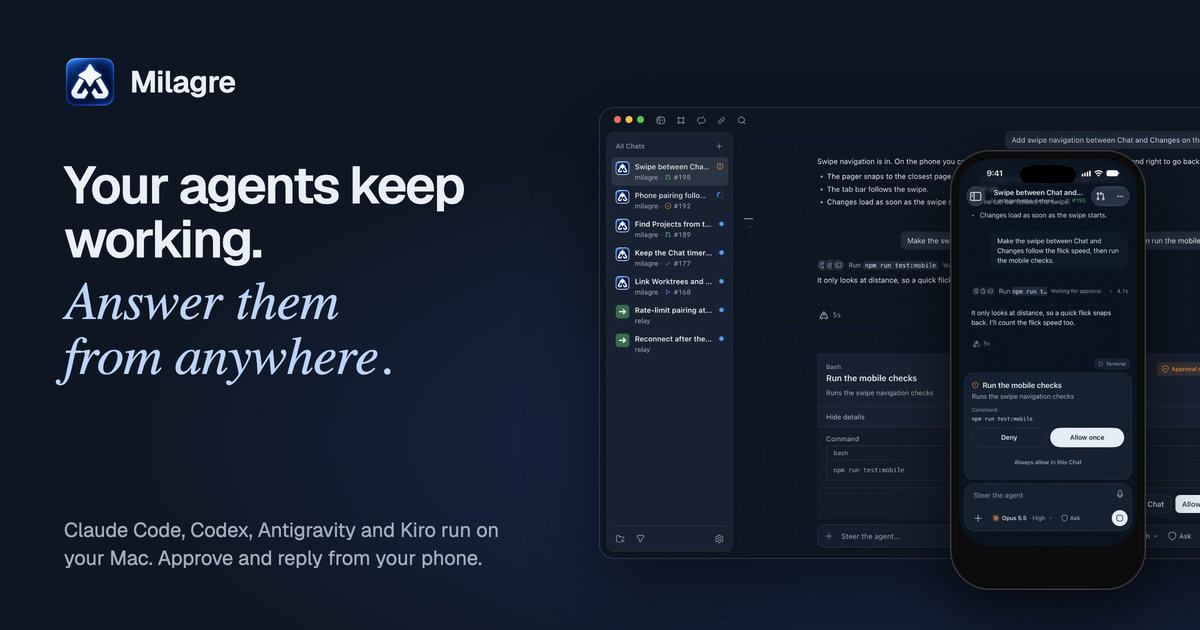
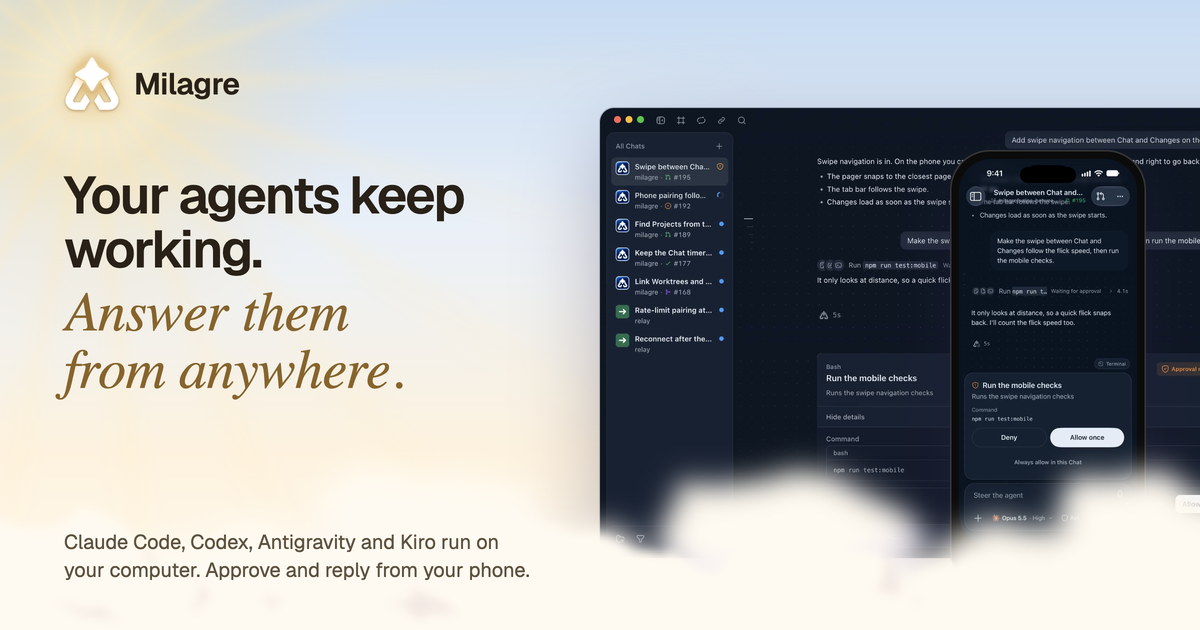
feat(site): link preview image in the Dawn day look (#1010)
og.png matches the Dawn landing. Also fixes the landing's Electron check for the Dawn hero (clouds, smaller phone frame) and clips the star trail's light at the page edges.

diff --git a/apps/site/src/styles/dawn.css b/apps/site/src/styles/dawn.css
@@ -191,6 +191,8 @@ html:not([data-dawn]) :is(.dawn-night, .dawn-dawn, .dawn-stars) {
   inset: 0 0 auto;
   z-index: 0;
   display: none;
+  /* The star's light stops at the page's edges instead of widening the page. */
+  overflow-x: clip;
   pointer-events: none;
 }
 @supports (animation-timeline: scroll()) {
